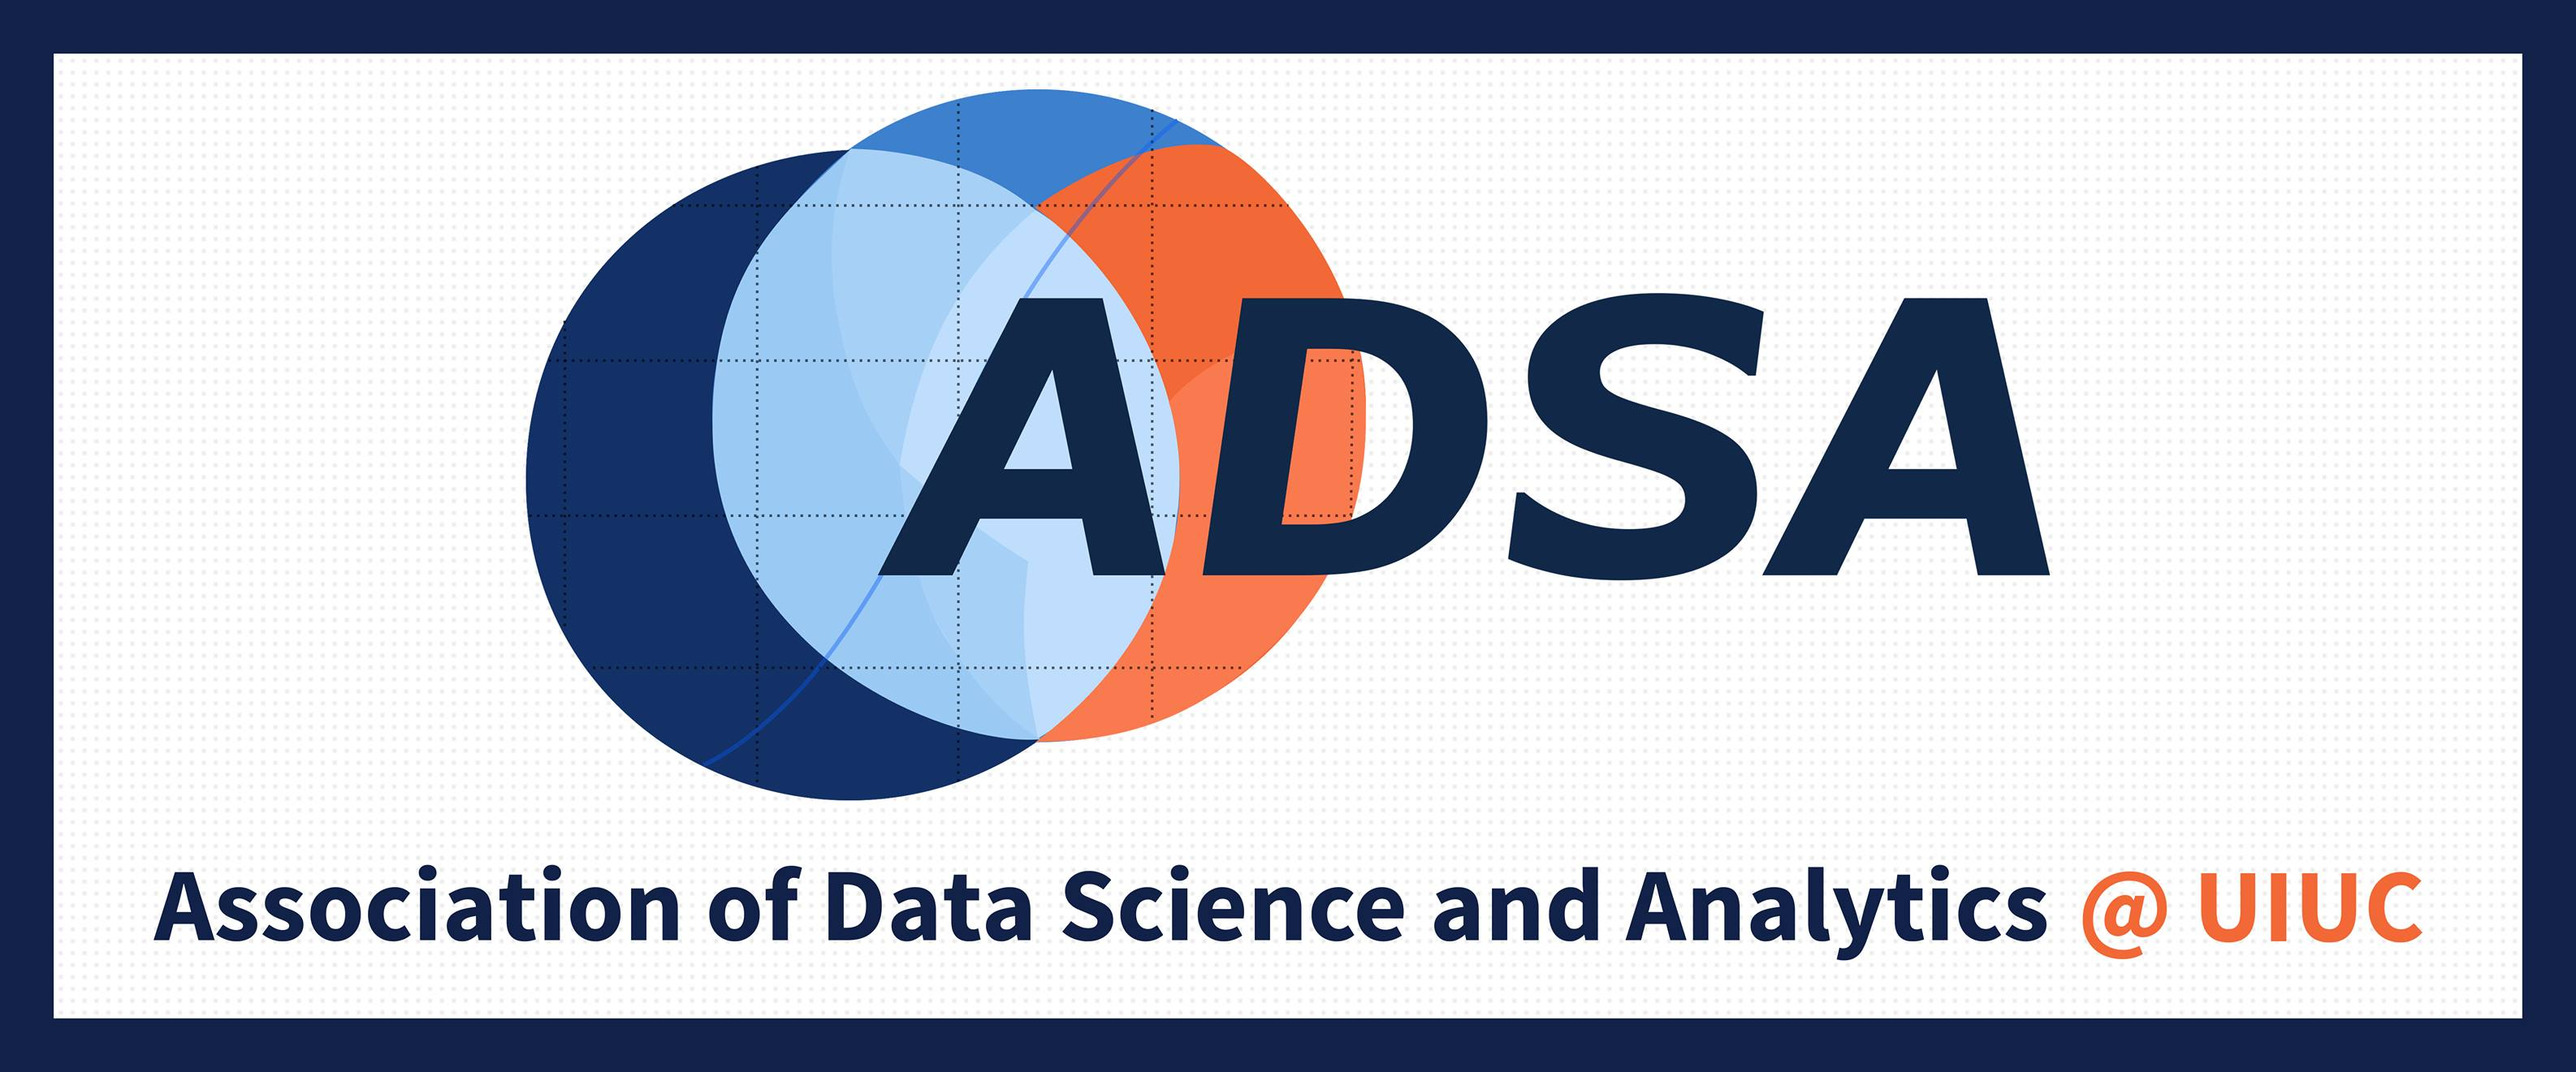
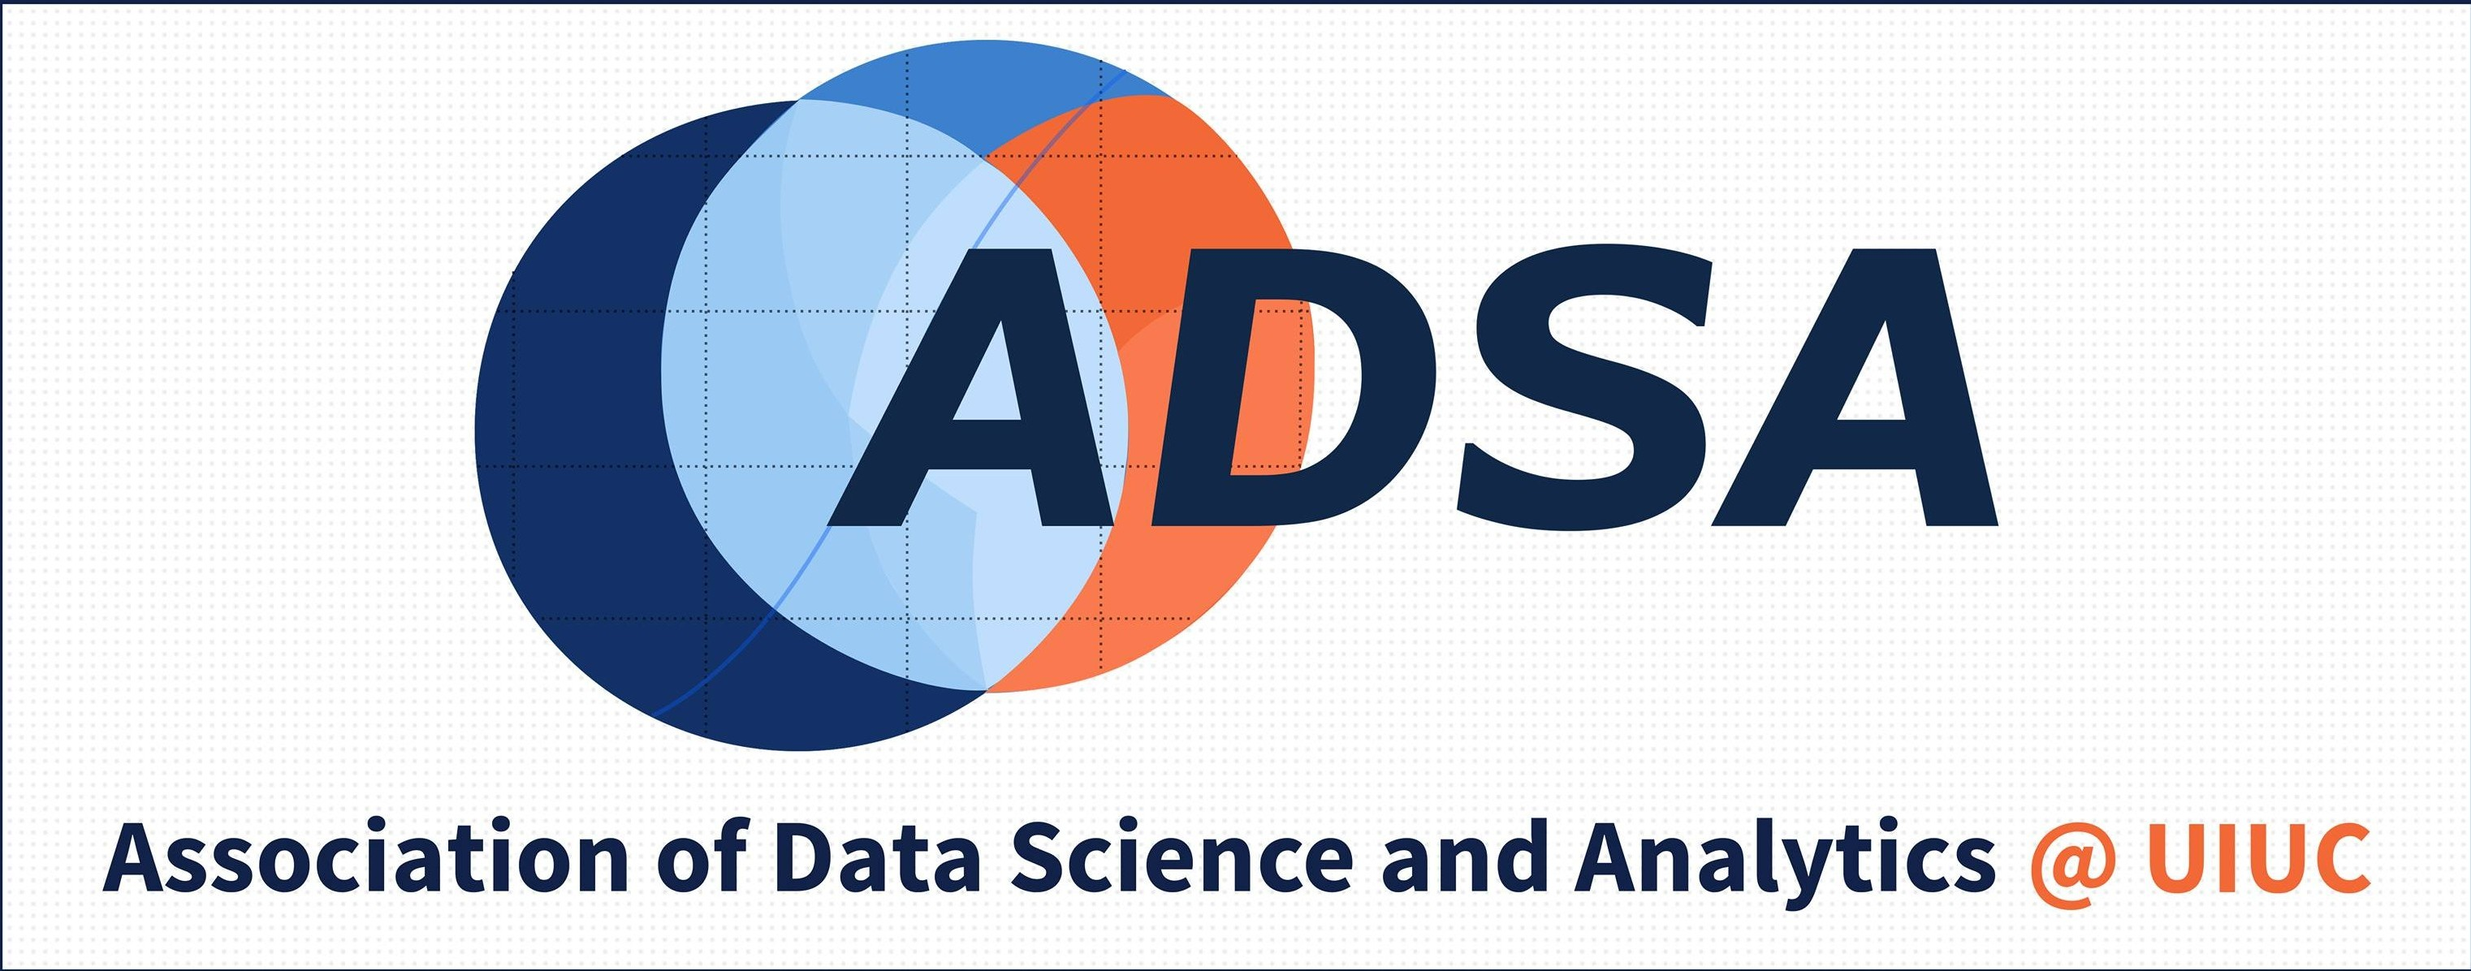
removed blue edges from header, resized slideshow

Changed region(s): [[0.0, 0.0, 1.0, 1.0]]

diff --git a/style.css b/style.css
@@ -120,55 +120,8 @@ header {
     background-repeat: no-repeat;
     background-size: cover;
     background-position: center;
-    height: 90vh;
-}
-
-@media (max-width: 1688px) {
-    header {
-        height: 80vh;
-    }
-}
-
-@media (max-width: 1500px) {
-    header {
-        height: 70vh;
-    }
-}
-
-@media (max-width: 1320px) {
-    header {
-        height: 62vh;
-    }
-}
-
-@media (max-width: 1180px) {
-    header {
-        height: 55vh;
-    }
-}
-
-@media (max-width: 1045px) {
-    header {
-        height: 49vh;
-    }
-}
-
-@media (max-width: 930px) {
-    header {
-        height: 43vh;
-    }
-}
-
-@media (max-width: 820px) {
-    header {
-        height: 35vh;
-    }
-}
-
-@media (max-width: 730px) {
-    header {
-        height: 30vh;
-    }
+    width: 100%;
+    padding-bottom: 39.3%;
 }
 
 
@@ -329,7 +282,7 @@ header {
     min-width: 100%;
     min-height: 100%;
     width: auto;
-    height:auto;
+    height: auto;
     /* better to use first frame of video*/
     /*
     background: url('data_alt.jpg') no-repeat;

diff --git a/index.html b/index.html
@@ -63,7 +63,7 @@
     </header>
 
     <section id="event" class="events wow fadeInLeft" data-wow-delay="300ms">
-        <div class="container" align="center">
+        <div class="container-fluid" align="center">
             <div class="row slides img-wrapper">
                 <div class="mySlides fade">
                     <div class="numbertext">1 / 3</div>
